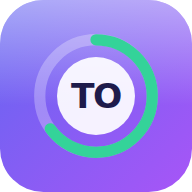
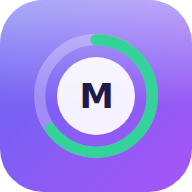
Rebrand to Matriculate
The name changed everywhere it is visible: page title, sidebar mark ("TO"
is now "M"), heading, footer tagline, terms/privacy/notices titles,
manifest name and short_name, social card, favicon, the CSV export
filename, and the offline single-file copy (now matriculate-offline.html).
The og.png and icon PNGs are regenerated from the updated SVG source, not
hand-edited.

"Matriculate" was picked over the earlier candidates for being the actual
term of art — formally enrolling at a college — rather than a stretched
metaphor: the meaning lands correctly the moment you place it, and it
needs no explanation to anyone who has been through the process.

The record's storage keys move from transfer-odds:v1 (and the walkthrough
seen-flag) to matriculate:v1, with a read-only fallback to the old names:
load() and seenWalkthrough() check the new key first and fall back to the
old one, so nobody who saved a record under the previous name finds it
missing. The first edit persists it under the new key on its own — there
is no migration step to run and nothing to clean up. Verified in a real
browser: a simulated pre-rename visitor with a saved GPA, list and
seen-flag lands on their own record with the walkthrough correctly
suppressed, and an edit afterward writes under the new key while leaving
the old one in place, harmless.

build-site.mjs also gains conditional CNAME emission: once SITE_URL names
a real custom domain rather than the *.github.io fallback, the build
[…]

Changed region(s): [[0.3438, 0.4062, 0.6562, 0.5625]]

diff --git a/index.html b/index.html
@@ -1,4 +1,4 @@
-<title>Transfer Odds</title>
+<title>Matriculate</title>
 <link rel="preconnect" href="https://fonts.googleapis.com">
 <link rel="preconnect" href="https://fonts.gstatic.com" crossorigin>
 <link rel="stylesheet" href="https://fonts.googleapis.com/css2?family=Poppins:wght@500;600;700&family=Plus+Jakarta+Sans:wght@400;500;600;700;800&family=JetBrains+Mono:wght@400;500;600&display=swap">
@@ -8,9 +8,9 @@
 
 <header class="topbar glass">
   <div class="brand">
-    <span class="mark" aria-hidden="true">TO</span>
+    <span class="mark" aria-hidden="true">M</span>
     <div>
-      <h1>Transfer Odds</h1>
+      <h1>Matriculate</h1>
       <p class="counts"><span id="dbcount">588</span> schools · <span id="majorcount">154</span> majors</p>
     </div>
   </div>
@@ -23,9 +23,9 @@
   </button>
   <div class="drawer-body" id="drawerbody" tabindex="-1" inert>
   <div class="sidebar-head">
-    <span class="mark" aria-hidden="true">TO</span>
+    <span class="mark" aria-hidden="true">M</span>
     <div>
-      <b>Transfer Odds</b>
+      <b>Matriculate</b>
       <small><span id="dbcount2">588</span> schools · <span id="majorcount3">154</span> majors</small>
     </div>
   </div>
@@ -373,10 +373,10 @@
       <article class="legaldoc" id="terms" data-doc="terms" data-title="Terms of use">
         <h3>Terms of use</h3>
         <p class="updated">Last updated 16 September 2026</p>
-        <p>Transfer Odds is a free, non-commercial tool published by an individual. By using it you agree to what follows. If you do not agree, do not use it.</p>
+        <p>Matriculate is a free, non-commercial tool published by an individual. By using it you agree to what follows. If you do not agree, do not use it.</p>
 
         <h4>1. What the service is</h4>
-        <p>Transfer Odds estimates the likelihood that a transfer applicant with a given academic record would be admitted to a given college. <b>Every number it produces is modelled, not measured.</b> No college publishes transfer admission decisions at the applicant level, so nothing here is fitted to real outcomes. The model reconstructs each school's applicant pool from its published transfer admit rate and the grade point average its admitted transfers carry, then places the record you enter inside that pool. Estimates are planning aids. They are not predictions, guarantees, or statements of fact about any admission decision.</p>
+        <p>Matriculate estimates the likelihood that a transfer applicant with a given academic record would be admitted to a given college. <b>Every number it produces is modelled, not measured.</b> No college publishes transfer admission decisions at the applicant level, so nothing here is fitted to real outcomes. The model reconstructs each school's applicant pool from its published transfer admit rate and the grade point average its admitted transfers carry, then places the record you enter inside that pool. Estimates are planning aids. They are not predictions, guarantees, or statements of fact about any admission decision.</p>
 
         <h4>2. Not advice</h4>
         <p>Nothing here is educational, financial, legal or professional advice, and using it creates no advisory relationship. Where you apply, what you study and what you spend on applications are your decisions. Verify every admit rate, deadline, credit cap, prerequisite and policy with the institution's own admissions office or its current Common Data Set before relying on it.</p>
@@ -417,7 +417,7 @@
         <p><b>This site collects nothing.</b> There is no account, no server, no database, no analytics, no advertising, no tracking pixel and no cookie. The calculation runs entirely inside your browser, on your device. Nothing you type is transmitted anywhere, because there is nowhere for it to go.</p>
 
         <h4>What is stored, and where</h4>
-        <p>When you press <b>Save record</b>, your record — grade point average, credits, college, residency, major, entry term, self-ratings and your school list — is written to your browser's <b>local storage</b> under the key <code>transfer-odds:v1</code>. Local storage lives on your own device. It is not a cookie, it is never sent with a network request, and no one else can read it, including the publisher.</p>
+        <p>When you press <b>Save record</b>, your record — grade point average, credits, college, residency, major, entry term, self-ratings and your school list — is written to your browser's <b>local storage</b> under the key <code>matriculate:v1</code>. Local storage lives on your own device. It is not a cookie, it is never sent with a network request, and no one else can read it, including the publisher.</p>
         <p>To erase it: press <b>Clear</b> on the record panel, or clear site data for this domain in your browser settings. A private or incognito window keeps nothing after you close it.</p>
         <p>Under the ePrivacy Directive and comparable rules, storage a user explicitly asks for — here, saving your own record by pressing a button labelled Save — is strictly necessary for the function requested and needs no consent banner. That is the only storage this site performs.</p>
 
@@ -454,7 +454,7 @@
 </div>
 
 <footer class="siteft">
-  <span>Transfer Odds — a planning tool, not a prediction.</span>
+  <span>Matriculate — a planning tool, not a prediction.</span>
   <span id="footlinks"><button type="button" class="linky" data-tab="method">About the model</button> · <button type="button" class="linky" data-tab="legal">Terms &amp; privacy</button></span>
 </footer>
 

diff --git a/app.js b/app.js
@@ -56,8 +56,14 @@ const BLANK = {
 /* Built once: everything each school can be found by. */
 const INDEX = new Map(SCHOOLS.map((s) => [s.name, searchIndex(s, STATE_NAMES[s.state])]));
 
-const KEY = "transfer-odds:v1";
-const SEEN_KEY = "transfer-odds:walkthrough:v1";
+const KEY = "matriculate:v1";
+const SEEN_KEY = "matriculate:walkthrough:v1";
+/* The site was called Transfer Odds when this key name was chosen. Read-only
+   fallbacks so a record or a "seen the walkthrough" flag saved under the old
+   name is not simply gone — the first save under either afterward moves it to
+   the new key on its own, with nothing to run once and nothing to clean up. */
+const OLD_KEY = "transfer-odds:v1";
+const OLD_SEEN_KEY = "transfer-odds:walkthrough:v1";
 /* ?fresh — the whole page behaves as though this browser had never been here:
    the walkthrough runs on every load, the answers start blank, and nothing is
    written to storage, so a real record survives being previewed over. It is
@@ -70,7 +76,7 @@ let viewingShared = false;
 
 function load() {
   try {
-    const raw = localStorage.getItem(KEY);
+    const raw = localStorage.getItem(KEY) || localStorage.getItem(OLD_KEY);
     if (!raw) return null;
     const p = JSON.parse(raw);
     if (!p.majorId && p.major) p.majorId = LEGACY_MAJOR[p.major] || "undeclared";
@@ -1098,7 +1104,7 @@ function endWalkthrough({ finished } = {}) {
 
 function seenWalkthrough() {
   if (PREVIEW) return false;
-  try { return localStorage.getItem(SEEN_KEY) === "1"; } catch { return true; }
+  try { return localStorage.getItem(SEEN_KEY) === "1" || localStorage.getItem(OLD_SEEN_KEY) === "1"; } catch { return true; }
 }
 
 /* Whether to open the questions unprompted.
@@ -1242,7 +1248,7 @@ el("export").addEventListener("click", async () => {
     ].join(",")),
   ].join("\n");
 
-  const filename = `transfer-odds-${major ? major.id : "list"}.csv`;
+  const filename = `matriculate-${major ? major.id : "list"}.csv`;
 
   /* Inside a claude.ai artifact the viewer sandbox blocks ordinary downloads,
      so the runtime hands the file over instead. On the public site there is no

diff --git a/data.js b/data.js
@@ -1,4 +1,4 @@
-/* Transfer Odds Worksheet — institution reference table.
+/* Matriculate — institution reference table.
  *
  * Row format (pipe-delimited):
  *   name | state | control | online | transferAdmitRate% | confidence | typicalGPA | maxCredits | tags

diff --git a/styles.css b/styles.css
@@ -1,4 +1,4 @@
-/* Transfer Odds — glass and clay, kept quiet.
+/* Matriculate — glass and clay, kept quiet.
  *
  * Two material systems, kept apart on purpose:
  *   GLASS  surfaces you look THROUGH — panels, the top bar, school cards.

diff --git a/README.md b/README.md
@@ -1,4 +1,4 @@
-# Transfer Odds Worksheet
+# Matriculate
 
 A single-page tool that estimates transfer-admission odds at 588 US institutions,
 including primarily-online campuses, from one saved student record.
@@ -337,7 +337,7 @@ SITE_URL=https://yourdomain.com npm run build
 npx serve dist                     # or: cd dist && python3 -m http.server
 ```
 
-`dist/transfer-odds-offline.html` is the whole app in one file — stylesheet
+`dist/matriculate-offline.html` is the whole app in one file — stylesheet
 inlined, the four modules concatenated into one classic script — so it opens by
 double-clicking, with no server. ES modules refuse to load over `file://`, which
 is why that build exists separately.

diff --git a/NOTICE.md b/NOTICE.md
@@ -2,7 +2,7 @@
 
 ## This project
 
-Code in `transfer-odds/` is © 2026 Gavin Schote, released under the MIT License
+This code is © 2026 Gavin Schote, released under the MIT License
 (see `LICENSE`).
 
 The reference tables in `data.js` and `majors.js` are compilations of factual
